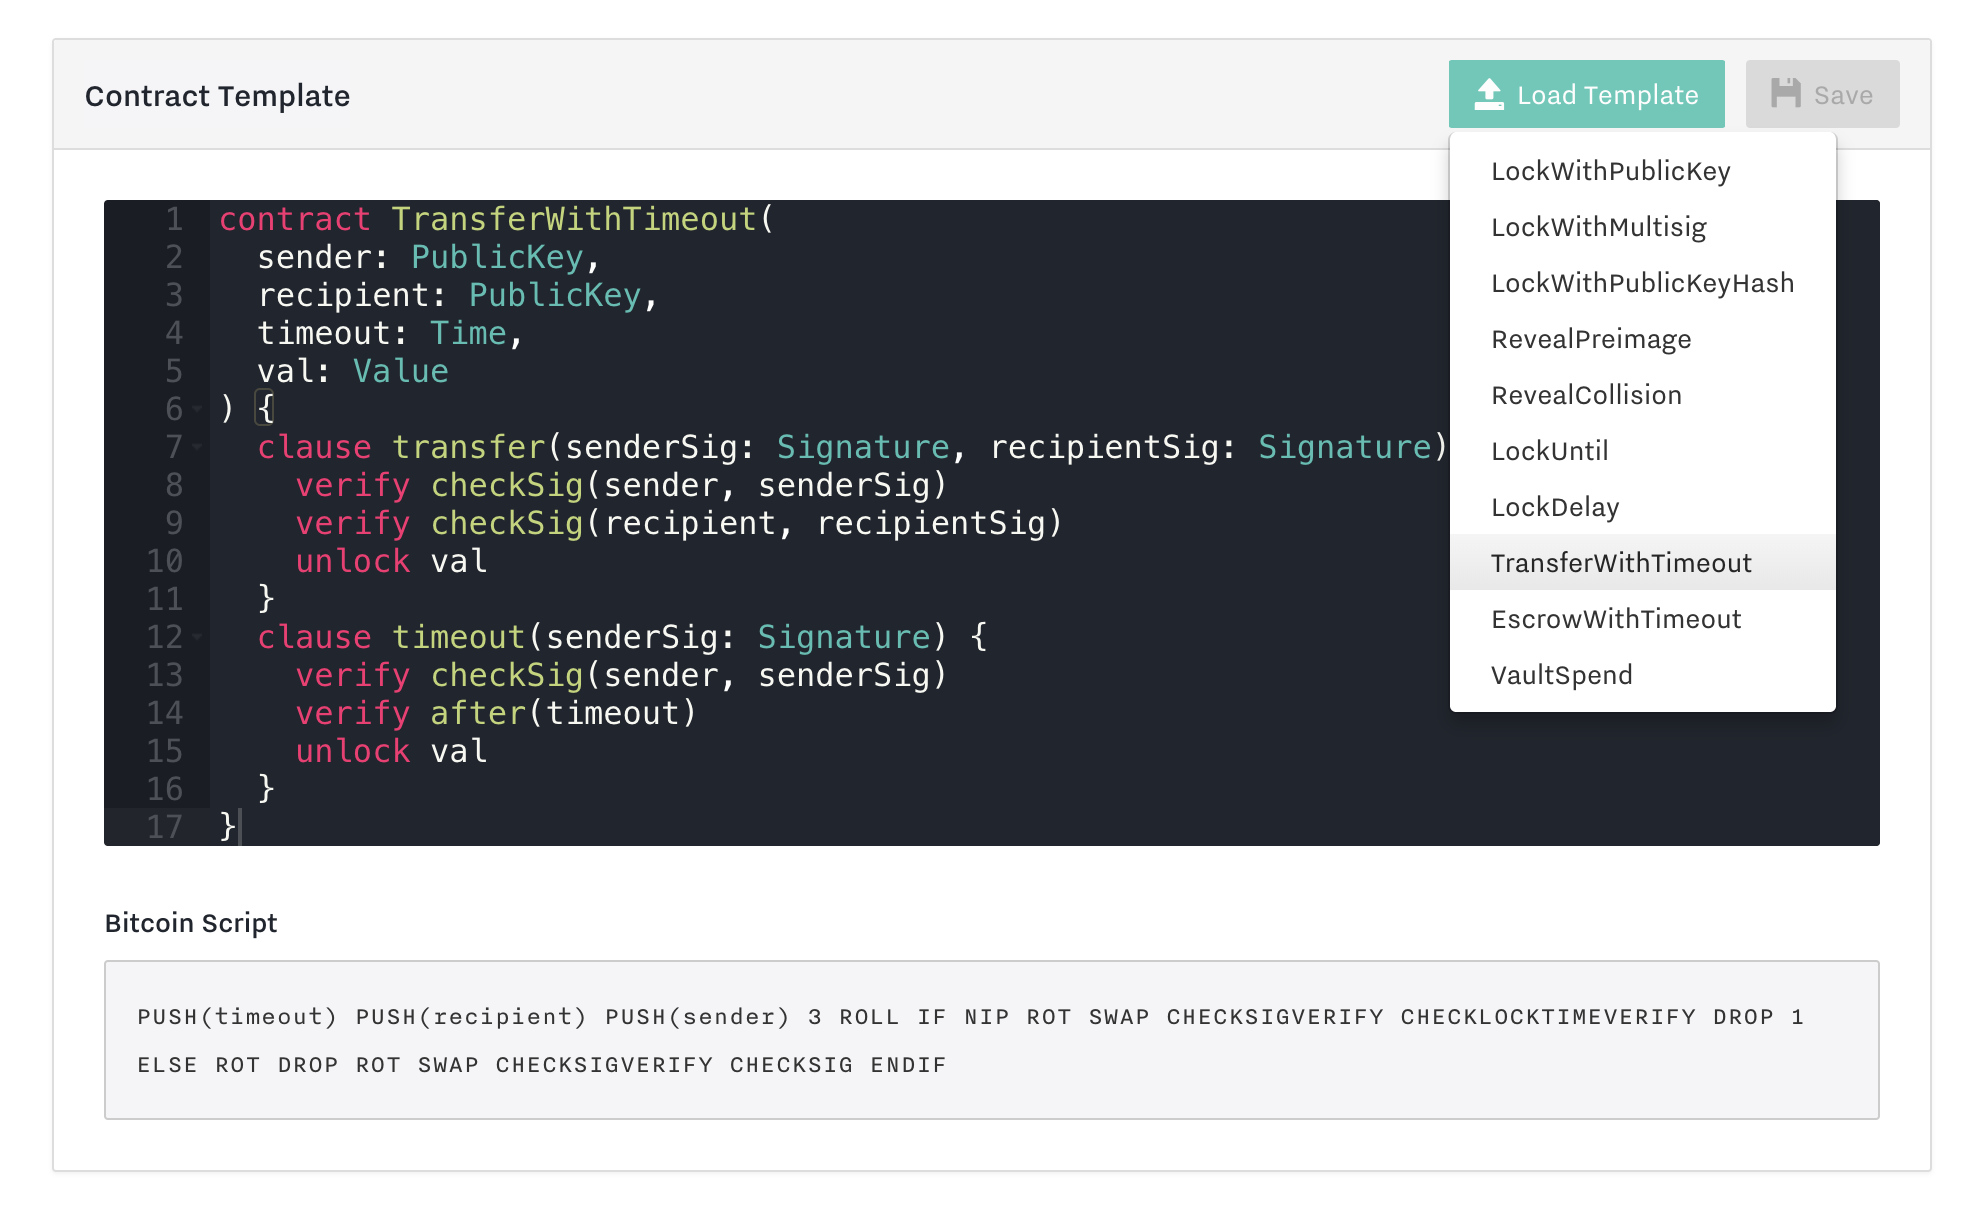
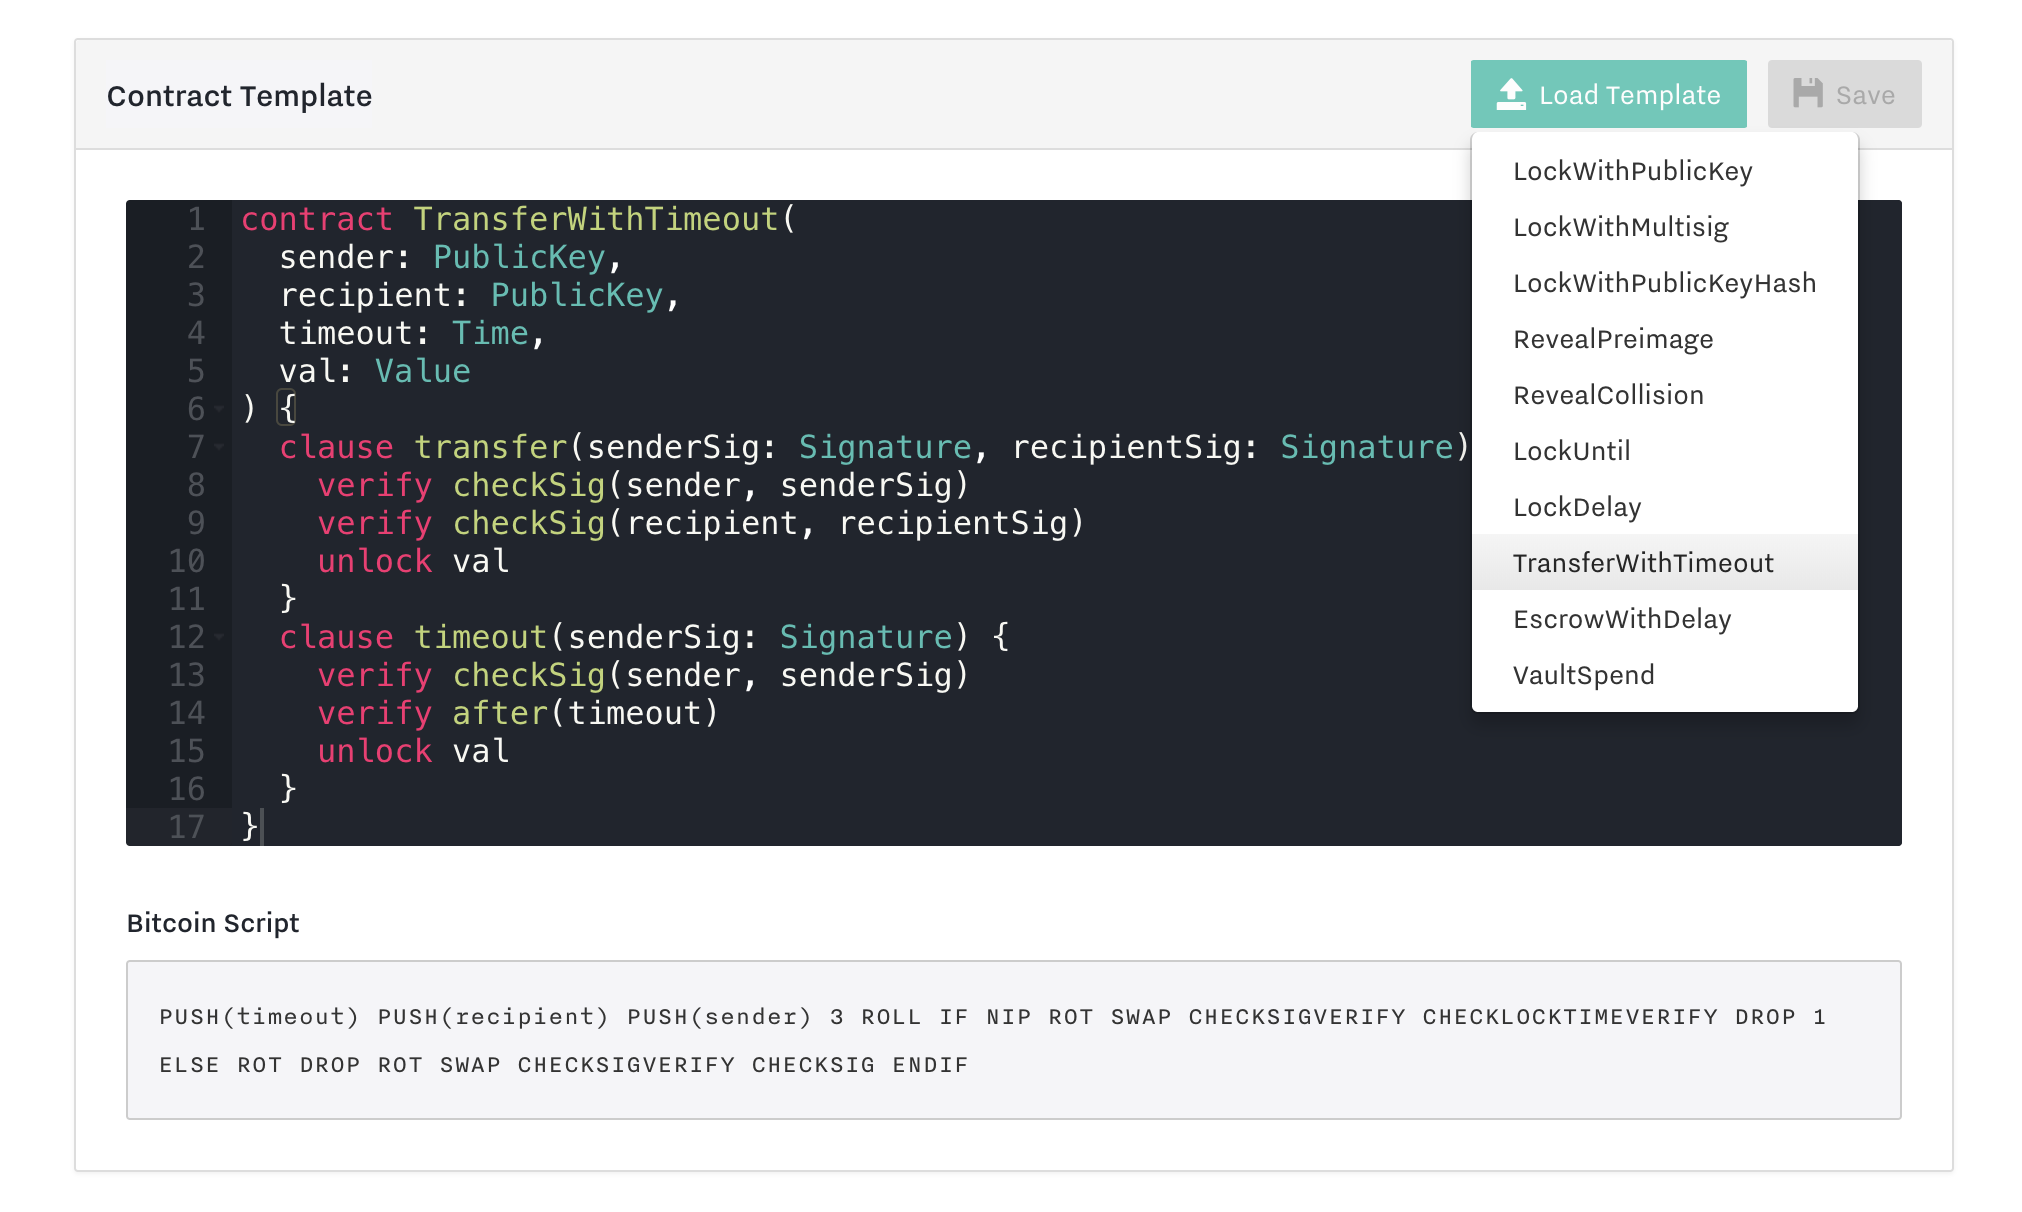
change escrow example from timeout to delay

diff --git a/ivy-bitcoin/src/predefined.ts b/ivy-bitcoin/src/predefined.ts
@@ -11,7 +11,7 @@ export const DEMO_ID_LIST = [
   "LockUntil",
   "LockDelay",
   "TransferWithTimeout",
-  "EscrowWithTimeout",
+  "EscrowWithDelay",
   "VaultSpend"
 ]
 
@@ -84,21 +84,23 @@ export const DEMO_CONTRACTS = {
     unlock val
   }
 }`,
-  EscrowWithTimeout: `contract EscrowWithTimeout(
+  EscrowWithDelay: `contract EscrowWithDelay(
   sender: PublicKey,
   recipient: PublicKey,
   escrow: PublicKey,
-  timeout: Time,
+  delay: Duration,
   val: Value
 ) {
-  clause transfer(escrowSig: Signature, recipientSig: Signature) {
-    verify checkSig(escrow, escrowSig)
-    verify checkSig(recipient, recipientSig)
+  clause transfer(sig1: Signature, sig2: Signature) {
+    verify checkMultiSig(
+      [sender, recipient, escrow], 
+      [sig1, sig2]
+    )
     unlock val
   }
-  clause timeout(senderSig: Signature) {
-    verify checkSig(sender, senderSig)
-    verify after(timeout)
+  clause timeout(sig: Signature) {
+    verify checkSig(sender, sig)
+    verify older(delay)
     unlock val
   }
 }`,
@@ -170,7 +172,7 @@ export const TEST_CONTRACT_ARGS = {
   LockUntil: [PublicKeys[0], 20, 0],
   LockDelay: [PublicKeys[0], 20, 0],
   TransferWithTimeout: [PublicKeys[0], PublicKeys[1], 20, 0],
-  EscrowWithTimeout: [...PublicKeys, 20, 0],
+  EscrowWithDelay: [...PublicKeys, 20, 0],
   VaultSpend: [PublicKeys[0], PublicKeys[1], 20, 0],
   HashOperations: [Sha256Bytes, Sha1Bytes, Ripemd160Bytes, 0]
 }
@@ -184,19 +186,19 @@ export const TEST_CONTRACT_CLAUSE_NAMES = {
   LockUntil: "spend",
   LockDelay: "spend",
   TransferWithTimeout: "transfer",
-  EscrowWithTimeout: "timeout",
+  EscrowWithDelay: "timeout",
   VaultSpend: "complete",
   HashOperations: "reveal"
 }
 
 export const TEST_CONTRACT_TIMES = {
   LockUntil: 20,
-  EscrowWithTimeout: 20  
 }
 
 export const TEST_CONTRACT_AGES = {
   LockDelay: 20,
-  VaultSpend: 20
+  VaultSpend: 20,
+  EscrowWithDelay: 20,  
 }
 
 export const TEST_SPEND_ARGUMENTS = {
@@ -226,8 +228,8 @@ export const TEST_SPEND_ARGUMENTS = {
[2 lines of base64/hex data omitted]
   ],
-  EscrowWithTimeout: [
[1 lines of base64/hex data omitted]
+  EscrowWithDelay: [
[1 lines of base64/hex data omitted]
   ],
   VaultSpend: [
[1 lines of base64/hex data omitted]

diff --git a/docs/language/ExampleContracts.md b/docs/language/ExampleContracts.md
@@ -10,7 +10,7 @@ Below are some examples of contract templates written in Ivy. You can try out th
 * [LockUntil](#lockuntil)
 * [LockDelay](#lockdelay)
 * [TransferWithTimeout](#transferwithtimeout)
-* [EscrowWithTimeout](#escrowwithtimeout)
+* [EscrowWithDelay](#escrowwithdelay)
 * [VaultSpend](#vaultspend)
 
 ## LockWithPublicKey
@@ -109,7 +109,7 @@ contract LockUntil(publicKey: PublicKey, time: Time, val: Value) {
 
 LockUntil is similar to [LockWithPublicKey](#lockwithpublickey), but adds an additional condition known as a timelock—it can only be spent after a particular time has passed.
 
-Absolute timelocks (which use the [nLockTime](https://en.bitcoin.it/wiki/NLockTime) field of the spending transaction and the [CHECKLOCKTIMEVERIFY](https://github.com/bitcoin/bips/blob/master/bip-0065.mediawiki) opcode) can be used to prevent yourself from withdrawing Bitcoin before a certain time. They are also useful for some more sophisticated applications, such as [escrow](#escrowwithtimeout) or [payment channels](#transferwithtimeout).
+Absolute timelocks (which use the [nLockTime](https://en.bitcoin.it/wiki/NLockTime) field of the spending transaction and the [CHECKLOCKTIMEVERIFY](https://github.com/bitcoin/bips/blob/master/bip-0065.mediawiki) opcode) can be used to prevent yourself from withdrawing Bitcoin before a certain time. They are also useful for some more sophisticated applications, such as [escrow](#escrowwithdelay) or [payment channels](#transferwithtimeout).
 
 ## LockDelay
 
@@ -161,36 +161,37 @@ Alice can then send additional micropayments on this channel by creating new tra
 
 What happens if Bob disappears, or refuses to sign any transactions? That's what the `timeout` clause is for. After the channel's expiration time, Alice can call the `timeout` clause to reclaim all of the Bitcoin she used to prefund the channel. This prevents Alice's money from being locked up forever if Bob refuses to cooperate.
 
-## EscrowWithTimeout
+## EscrowWithDelay
 
 ```
-contract EscrowWithTimeout(
+contract EscrowWithDelay(
   sender: PublicKey,
   recipient: PublicKey,
   escrow: PublicKey,
-  timeout: Time,
+  delay: Duration,
   val: Value
 ) {
-  clause transfer(escrowSig: Signature, recipientSig: Signature) {
-    verify checkSig(escrow, escrowSig)
-    verify checkSig(recipient, recipientSig)
+  clause transfer(sig1: Signature, sig2: Signature) {
+    verify checkMultiSig(
+      [sender, recipient, escrow], 
+      [sig1, sig2]
+    )
     unlock val
   }
-  clause timeout(senderSig: Signature) {
-    verify checkSig(sender, senderSig)
-    verify after(timeout)
+  clause timeout(sig: Signature) {
+    verify checkSig(sender, sig)
+    verify older(delay)
     unlock val
   }
-}
-```
+}```
 
-EscrowWithTimeout implements a simple escrow contract. When it is instantiated, three keys are specified—one for the `sender` of the transfer, one for the `recipient`, and one for an `escrow` agent.
+EscrowWithDelay implements a simple escrow contract. When it is instantiated, three keys are specified—one for the `sender` of the transfer, one for the `recipient`, and one for an `escrow` agent.
 
-The escrow agent can approve the transfer with the cooperation of the recipient, but cannot steal the money for himself.
+The escrow agent can approve or cancel the transfer with the cooperation of one of the other parties, but cannot steal the money for himself.
 
-If the escrow agent fails to cooperate, then after the expiration time, the sender is able to cancel the transfer and recover the money with the `timeout` clause.
+If the escrow agent and recipient both fail to cooperate, then after the expiration time, the sender is able to cancel the transfer and recover the money with the `timeout` clause.
 
-You can imagine variants of this contract that, for example give the `recipient` the funds in the event of a timeout instead of the `sender`, or that allow the `sender` and `escrow` agent, or the `sender` and `recipient`, to unlock the funds by mutual agreement.
+You can imagine variants of this contract that, for example, give the `recipient` the funds in the event of a timeout instead of the `sender`.
 
 ## VaultSpend
 

diff --git a/docs/language/README.md b/docs/language/README.md
@@ -14,7 +14,7 @@ Each clause can list one or more conditions that must be satisfied. Supported co
 
 * Checking that the cryptographic hash of a string or public key is equal to a prespecified hash (see [LockWithPublicKeyHash](/language/ExampleContracts.html#lockwithpublickeyhash), [RevealCollision](/language/ExampleContracts.html#revealcollision), [RevealPreimage](/language/ExampleContracts.html#revealpreimage))
 
-* Waiting until after a specified block height or block time (see [LockUntil](/language/ExampleContracts.html#lockuntil), [TransferWithTimeout](/language/ExampleContracts.html#transferwithtimeout), [EscrowWithTimeout](/language/ExampleContracts.html#escrowwithtimeout))
+* Waiting until after a specified block height or block time (see [LockUntil](/language/ExampleContracts.html#lockuntil), [TransferWithTimeout](/language/ExampleContracts.html#transferwithtimeout)
 
-* Waiting until the contract has been on the blockchain for longer than a specified duration (see [LockDelay](/language/ExampleContracts.html#lockdelay), [VaultSpend](/language/ExampleContracts.html#vaultspend))
+* Waiting until the contract has been on the blockchain for longer than a specified duration (see [LockDelay](/language/ExampleContracts.html#lockdelay),  [EscrowWithDelay](/language/ExampleContracts.html#escrowwithdelay)), [VaultSpend](/language/ExampleContracts.html#vaultspend))
 
